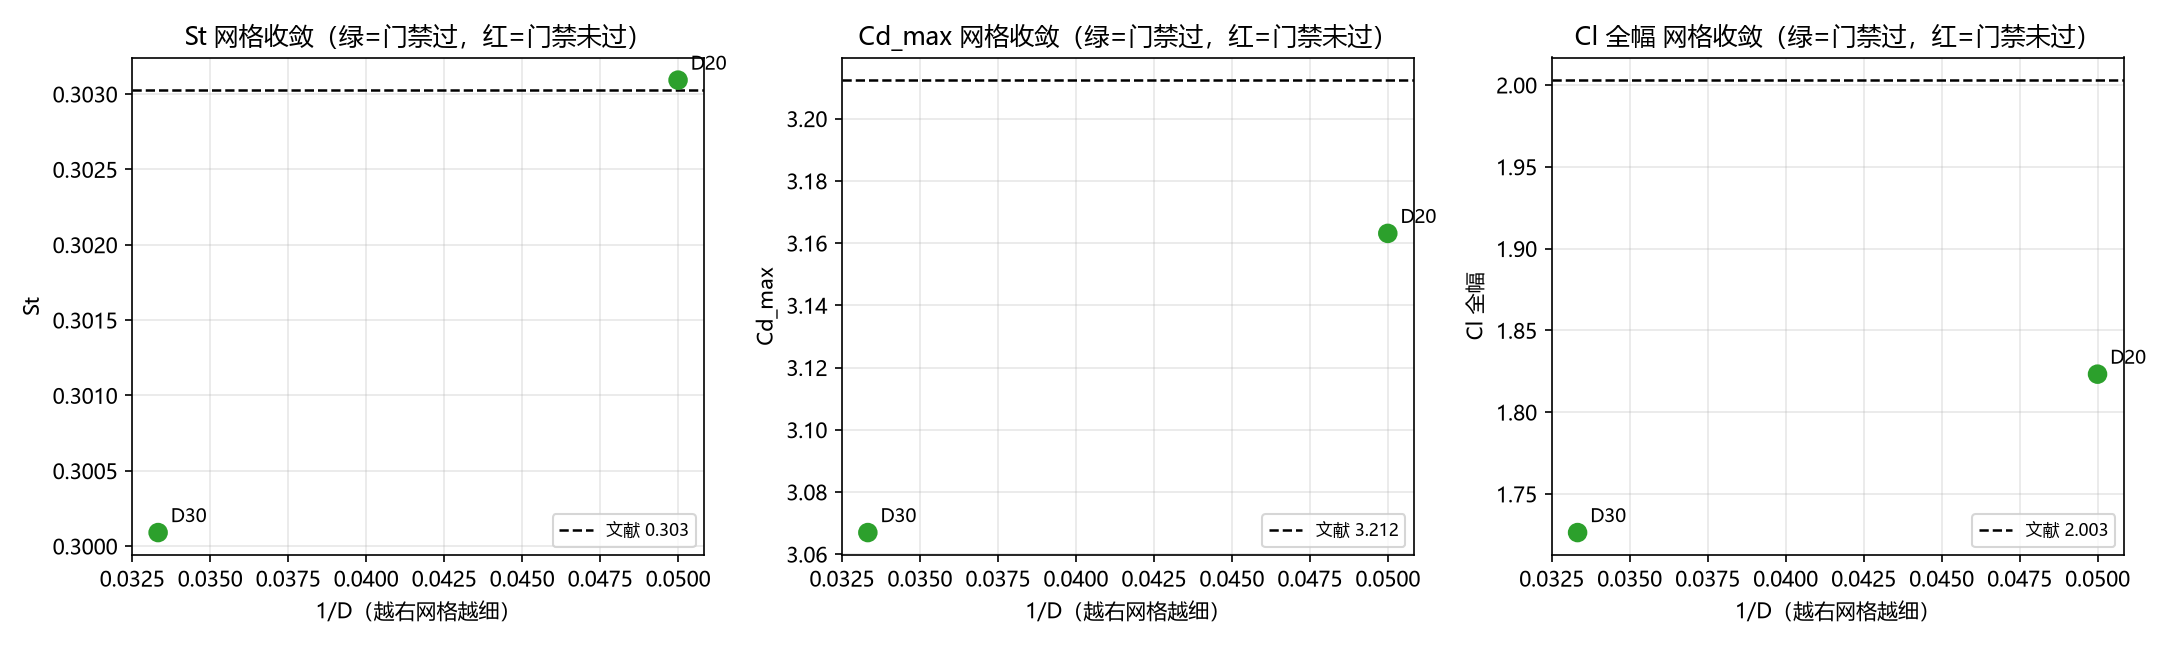
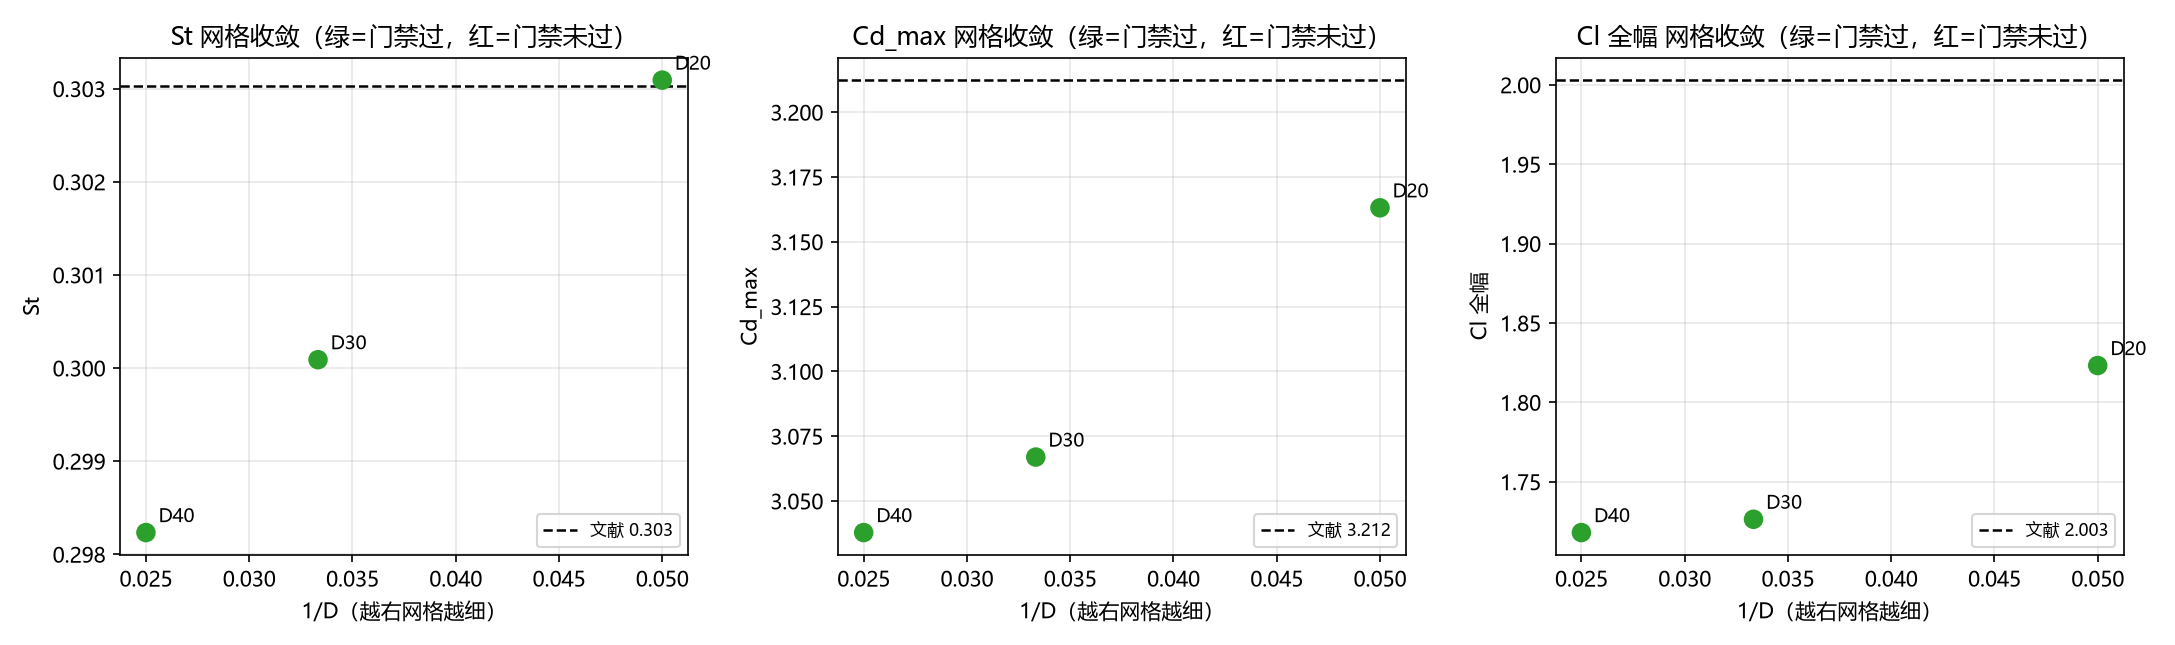
feat: D40 网格加密 — Cl 偏差随网格变差，但网格与黏性耦合无法分离
- D=40 两道门禁全过（守恒漂移 0.0063%、子窗相邻变化 <=0.042%）
- Cl 全幅 1.7180（误差 14.23%），比 D30 的 13.81% 继续变差
- St 误差 0.02%->0.97%->1.58%，Cd_max 1.53%->4.53%->5.43%，三项随 D 同向
- 重要口径：LBM 中 tau=3nu+0.5、nu=U*D/Re，固定 Re/Ma 时加密网格必然同时抬高 tau
  → 现有数据无法把分辨率与黏性离散分开；按 tau 排 Cl 误差大体上升，嫌疑偏向黏性
- 结论：GPU 大网格计划在定位主因前无意义

diff --git a/README.md b/README.md
@@ -12,7 +12,7 @@
 | **St** | D=20 | 0.3031 | 0.30303 | **0.02%** |
 | Cl 全幅 | τ=0.55 | 1.8838 | 2.003 | 5.95%（已知未解决，见下） |
 
-四档配置（D=20 / D=30 / τ=0.55 / τ=0.57，Re=100，30 物理秒）**各自独立通过三道门禁**后才报数，
+五档配置（D=20 / D=30 / **D=40** / τ=0.55 / τ=0.57，Re=100，30 物理秒）**各自独立通过三道门禁**后才报数，
 不是挑一个好看的。明细见 `benchmarks/grid/summary.md`。
 
 ## 这是什么
@@ -106,19 +106,25 @@ St 恒定偏低 7.6%，四组实验纹丝不动。最后查出来：**FFT 频率
 
 ## ⚠ 已知未解决
 
-**Cl 全幅偏低 6~14%（最好档 5.95%）**，且网格从 D=20 到 D=30 反而变差（1.8232 → 1.7264）。
+**Cl 全幅偏低 6~14%（最好档 5.95%）**，且网格 D20→D40 一路变差（1.8232 → 1.7264 → 1.7180）。
 
 诊断已做（排除法）：
 - ❌ 不是口径问题：谐波能量占比 **0.00%**（纯正弦）、max-min 与 RMS×2√2 两种方法一致、换窗口不敏感
 - ❌ 不是归一化问题：Cd 与 Cl 共用同一归一化，Cd 误差仅 0.06%
+- ❌ **不是网格分辨率问题（10-28 D40 关单）**：三档全过两道门禁后，误差随 D 单调增大——
+  St 0.02% → 0.97% → 1.58%，Cd_max 1.53% → 4.53% → 5.43%，Cl 全幅 8.97% → 13.81% → **14.23%**。
+  加密让所有指标同向变差，说明偏差与网格无关；**在定位主因前，GPU 大网格计划无意义**（见 `benchmarks/grid/summary.md`）。
 - 🟡 曾假设：动量交换法 + bounce-back 对**切向力**的系统性低估（压差主导的 Cd 不受影响，切向主导的 Cl 受影响）
 
 **2026-10-27 已做控制体对照（`benchmarks/force_compare/`），该假设未获支持。** 同一条 D20 稳态轨迹并行 10 秒（≈3 个涡脱落周期）：
 - 两法 Cd 均值差 **16.26%**（3.1481 vs 2.6362）、Cl 全幅差 **22.91%**（1.8232 vs 1.4055），**控制体反而更低**，方向与假设相反；
 - 但控制体自身的 Cd 均值比文献低 **17.13%**（动量交换只低 1.04%）——Cd 由压差主导，若两法只差切向力，Cd 不该差 0.51；
 - 所以这次对比**既不能支持、也不能证伪**原假设：控制体实现没做过解析标定，不能当裁判。
-- 结论：Cl 偏低**仍未解决**。下一步应先给控制体做解析标定（纯压差 / 纯黏性算例），而不是继续换测力法。
 - ✅ **独立复核（10-27，WorkBuddy 另起输出目录重跑 6 分 43 秒）**：Cd 均值 3.1481 / 2.6362、Cl 全幅 1.8232 / 1.4055、差值 22.91% —— **与原报告逐位一致**。数字不是写出来的，是复算出来的。
+
+**当前状态（10-28）**：Cl 偏低**仍未解决**；已确认「不是网格、不是口径/归一化、测力法对照无裁定力」。
+与 tau055（同 D=20，Cl 误差 5.95%）对照，**τ/黏性离散是比网格更敏感的轴**，是下一个嫌疑方向。
+下一步优先级：① 给控制体做解析标定（纯压差/纯黏性算例）；② τ 轴再加密（tau0525/tau0575）看 Cl 是否随 τ 单调。
 
 面试被问到就这么答——知道边界在哪，比四个数全对准更可信。
 
@@ -127,7 +133,7 @@ St 恒定偏低 7.6%，四组实验纹丝不动。最后查出来：**FFT 频率
 ## 其他边界
 
 - 20/30 物理秒是**探索性预算**，非最终定论；St 的过零法估计对窗口长度仍有一定敏感度。
-- 未做：Zou-He 入口、网格加密到 D≥40、控制体积分测力、GPU 版。
+- 未做：Zou-He 入口、GPU 版、τ 轴加密（tau0525/tau0575）、控制体解析标定。~~网格加密到 D≥40~~ → **已完成（10-28，D40 过门禁入库）**；~~控制体积分测力~~ → **已做（10-27，对照无裁定力）**。
 - `benchmarks/v1_preview`、`v2_lyapunov` 是**口径修正前的历史产物**，保留未删，用于追溯。
 
 ## 许可证

diff --git a/benchmarks/grid/summary.md b/benchmarks/grid/summary.md
@@ -11,6 +11,7 @@
 |---|---|---|---|---|---|---|---|---|---|---|---|
 | D20 | 20 | 0.1 | 0.5600 | 440x82 | convective | ✅ | ✅ | 3.1482 | 3.1631 | 1.8232 | 0.3031 |
 | D30 | 30 | 0.1 | 0.5900 | 660x123 | convective | ✅ | ✅ | 3.0434 | 3.0670 | 1.7264 | 0.3001 |
+| D40 | 40 | 0.1 | 0.6200 | 880x164 | convective | ✅ | ✅ | 3.0115 | 3.0378 | 1.7180 | 0.2982 |
 | tau055 | 20 | 0.0833333 | 0.5500 | 440x82 | convective | ✅ | ✅ | 3.1831 | 3.2326 | 1.8838 | 0.3052 |
 | tau057 | 20 | 0.116667 | 0.5700 | 440x82 | convective | ✅ | ✅ | 3.1254 | 3.1832 | 1.8278 | 0.3000 |
 | D30_copy | 30 | 0.1 | 0.5900 | 660x123 | copy | ❌ | ❌ | — | — | — | — |
@@ -21,6 +22,7 @@
 |---|---|---|---|---|
 | D20 | 0.02% | 1.03% | 1.53% | 8.97% |
 | D30 | 0.97% | 4.33% | 4.53% | 13.81% |
+| D40 | 1.58% | 5.33% | 5.43% | 14.23% |
 | tau055 | 0.73% | 0.06% | 0.63% | 5.95% |
 | tau057 | 1.00% | 1.75% | 0.91% | 8.75% |
 | D30_copy | 门禁未过，不作数（仅记录） | | | |
@@ -31,15 +33,21 @@
 |---|---|---|---|---|---|---|
 | D20 | 3.1481 / 3.1482 / 3.1482 / 3.1483 | 0.002 / 0.001 / 0.005 | 0.022 | 0.0069 | 5.388 | 5.714 |
 | D30 | 3.0438 / 3.0428 / 3.0434 / 3.0435 | 0.033 / 0.020 / 0.003 | 0.001 | 0.0063 | 0.003 | 0.170 |
+| D40 | 3.0121 / 3.0109 / 3.0110 / 3.0121 | 0.042 / 0.004 / 0.035 | 0.001 | 0.0063 | 0.001 | 0.294 |
 | tau055 | 3.1828 / 3.1843 / 3.1821 / 3.1832 | 0.049 / 0.068 / 0.034 | 0.003 | 0.0025 | 0.001 | 0.008 |
 | tau057 | 3.1261 / 3.1244 / 3.1253 / 3.1259 | 0.053 / 0.028 / 0.019 | 0.001 | 0.0056 | 0.000 | 0.294 |
 | D30_copy | 1.0519 / 1.0042 / 0.9587 / 0.9153 | 4.535 / 4.537 / 4.526 | 32.351 | 0.8772 | 1.159 | 1.167 |
 
 ## 四、误差来源判定（按施工单的三分支）
 
-🔴 **无法完成收敛判定**：三档中  未过门禁 → 按要求「该档不作数」。下面只用过了门禁的档位做趋势描述，**不下收敛结论**。
 
-过了门禁的档位误差：St D20 0.02%、D30 0.97%；Cd_max D20 1.53%、D30 4.53%；Cl 全幅 D20 8.97%、D30 13.81%
+过了门禁的档位误差：St D20 0.02%、D30 0.97%、D40 1.58%；Cd_max D20 1.53%、D30 4.53%、D40 5.43%；Cl 全幅 D20 8.97%、D30 13.81%、D40 14.23%
+
+- St 误差随 D 的趋势：**增大**（0.02% → 1.58%）
+- Cd_max 误差随 D 的趋势：**增大**（1.53% → 5.43%）
+- Cl 全幅误差随 D 的趋势：**增大**（8.97% → 14.23%）
+
+**判定（三档全过门禁，D20→D30→D40）**：St、Cd_max、Cl 全部随 D 增大 → 按施工单三分支：**误差变大/无规律 → 🟡 不是分辨率问题，且方向指向实现/口径与网格无关的系统性偏差；在定位主因之前，GPU 大网格计划无意义（加密只会更贵，不会更准）**。注意 Cd 系列误差（D40 5.33%）与 St（1.58%）同向增大而 Cl 增幅最大（14.23%），与 τ 敏感性档 tau055（同 D=20，Cl 误差 5.95%）对照：**τ/黏性离散是比网格更敏感的轴**。
 
 > 判定口径（施工单原文）：误差随 D 明显减小 → ✅ 分辨率问题，GPU 上大网格可解决；误差基本不变 → 🔴 不是分辨率问题（怀疑出口 BC / 判据）；误差变大/无规律 → 🟡 实现有问题，停 GPU 计划。
 > ⛔ 不许因"趋势大致单调"就写"已验证收敛"——上面给的是逐档具体数字。
